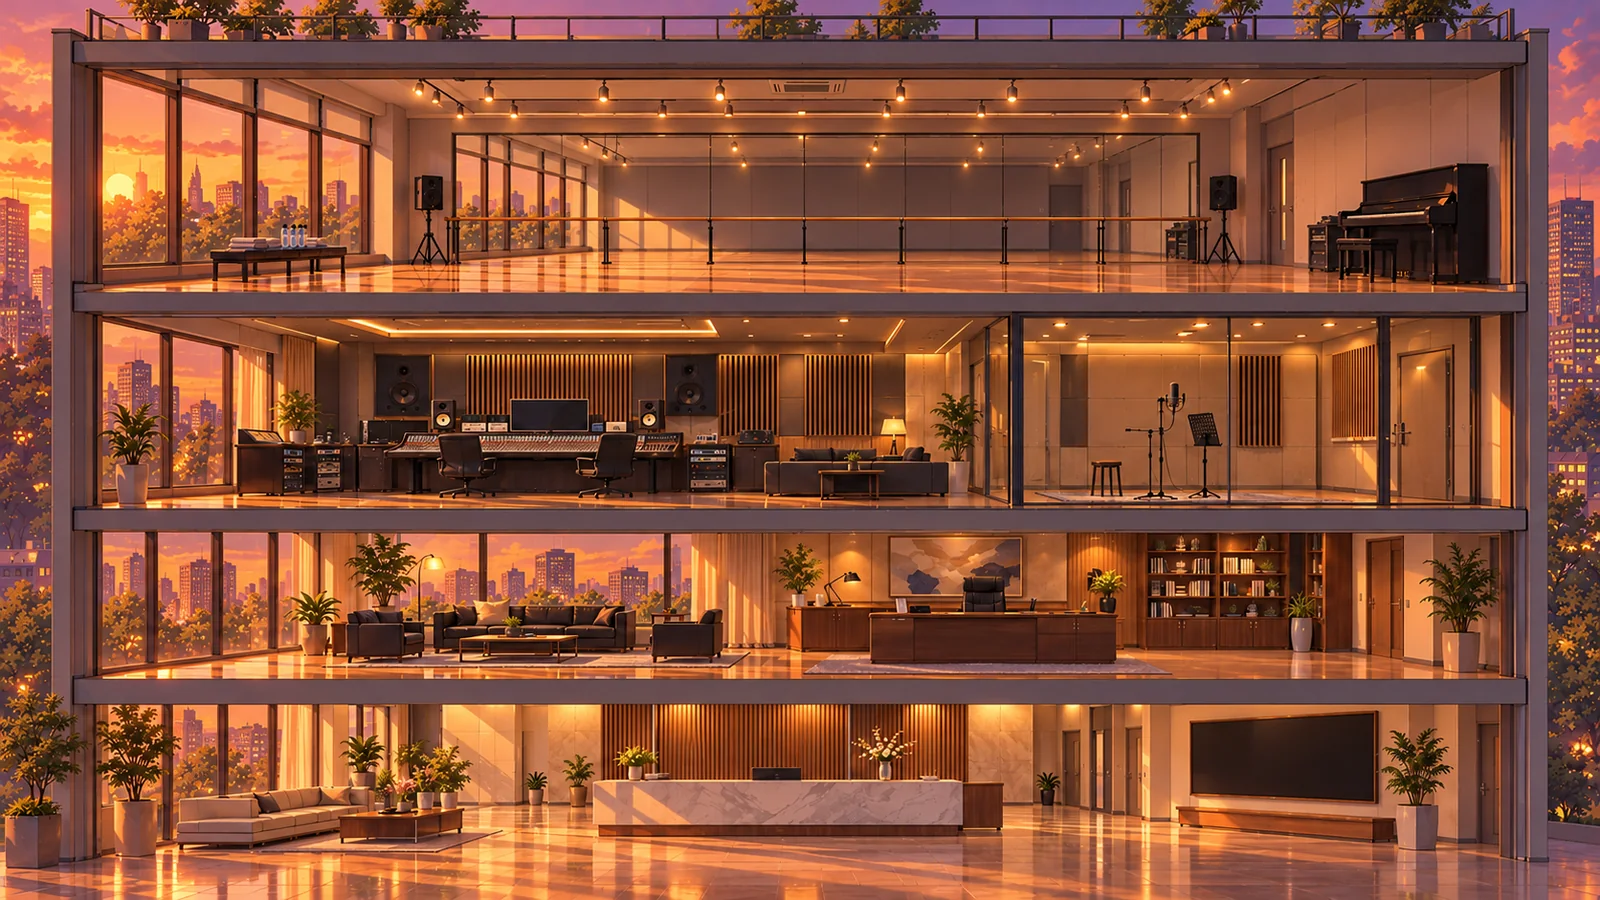
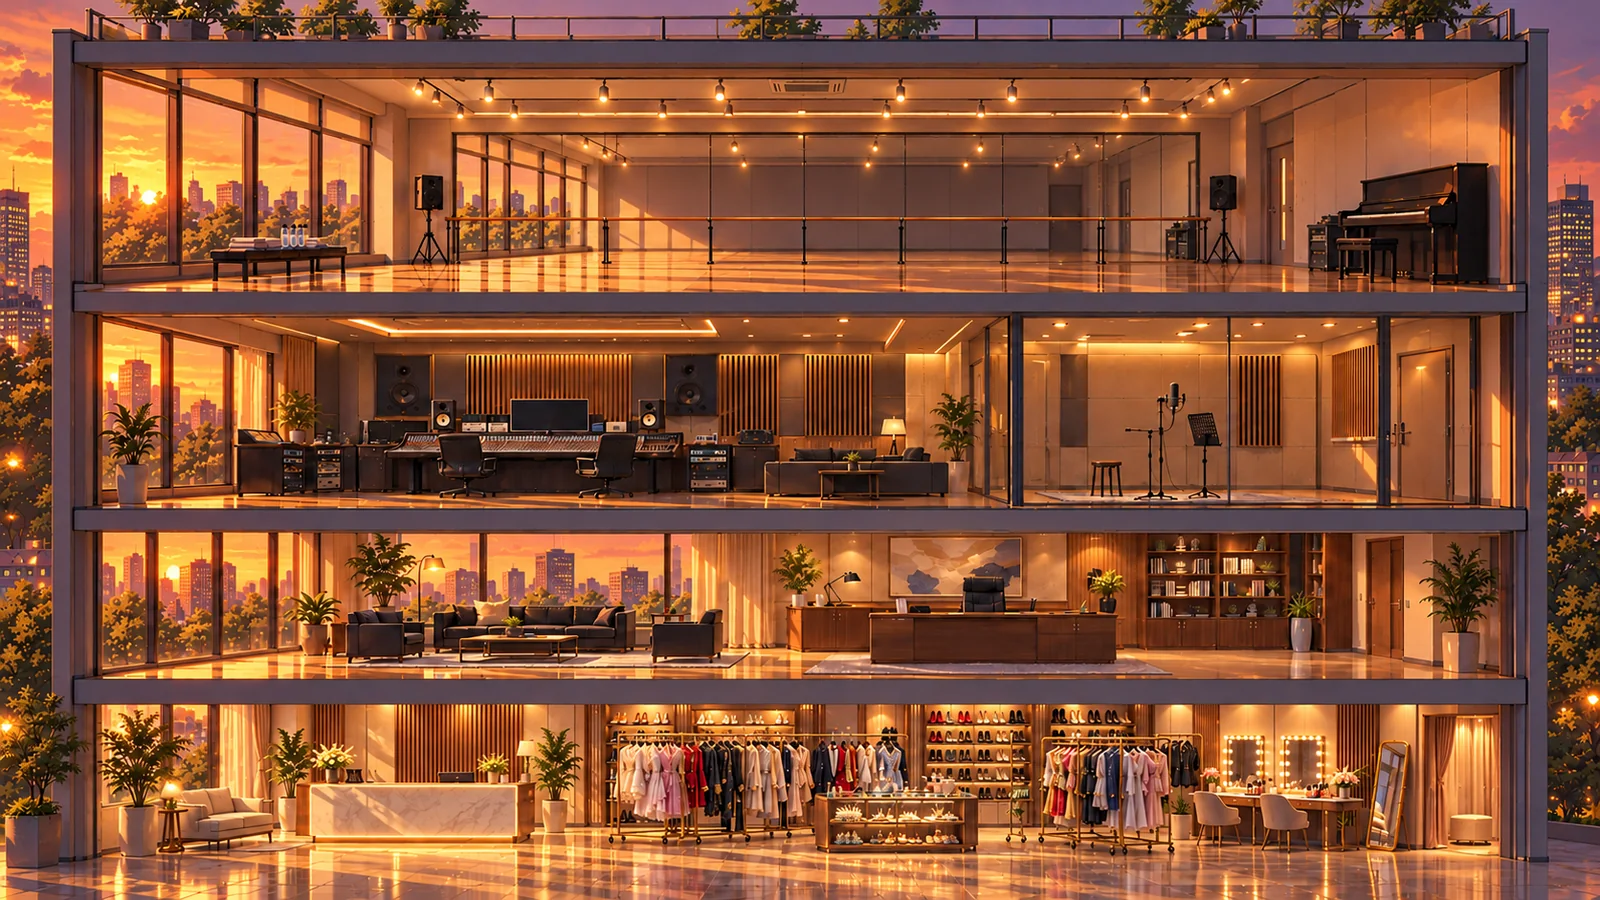
Add files via upload

diff --git a/www/game.js b/www/game.js
@@ -43,6 +43,7 @@ const PLACES=[
   {id:"practice",g:"公司大樓",n:"練習室",   sp:"practice",open:[0,1,2,3,4]},
   {id:"studio",  g:"公司大樓",n:"錄音室",   sp:"studio",  open:[1,2,3]},
   {id:"office",  g:"公司大樓",n:"代表辦公室",sp:"office",  open:[1,2,3]},
+  {id:"styling", g:"公司大樓",n:"造型室",   sp:"styling", open:[1,2,3]},
   {id:"living",  g:"宿舍",   n:"客廳",     sp:"dorm",    open:[0,3,4]},
   {id:"kitchen", g:"宿舍",   n:"廚房",     sp:"dorm",    open:[0,3,4]},
   {id:"bed_ys",  g:"宿舍",   n:"藝瑟的房間", sp:"dorm",    open:[0,3,4],base:"bedroom",owner:"ys"},
@@ -56,17 +57,17 @@ const PL=Object.fromEntries(PLACES.map(p=>[p.id,p]));
 const baseOf=pid=>PL[pid]?.base||pid;
 const openText=p=>p.open.length===5?"全天開放":p.open.map(i=>SLOTS[i].n).join("、")+"開放";
 const WHERE={
-  ys:[{practice:3,kitchen:2,living:1},{practice:4},{practice:3,studio:2},{practice:3,living:2,kitchen:1},{practice:3,living:1,river:1,bedroom:1}],
+  ys:[{practice:3,kitchen:2,living:1},{practice:4,styling:1},{practice:3,studio:2},{practice:3,living:2,kitchen:1},{practice:3,living:1,river:1,bedroom:1}],
   tr:[{bedroom:3,practice:1},{practice:3,studio:2},{studio:3,practice:2},{practice:2,bedroom:2,studio:1},{bedroom:2,store:2,practice:1}],
-  hy:[{practice:3,kitchen:1},{practice:2,"外出:韓語課":2},{practice:4},{practice:2,living:2},{living:1,bedroom:2,practice:1}],
-  he:[{kitchen:3,bedroom:1},{practice:3,"外出:個人拍攝":1},{practice:2,studio:1,"外出:個人拍攝":1},{kitchen:3,living:1,practice:1},{living:2,bedroom:2}],
+  hy:[{practice:3,kitchen:1},{practice:2,"外出:韓語課":2},{practice:4,styling:1},{practice:2,living:2},{living:1,bedroom:2,practice:1}],
+  he:[{kitchen:3,bedroom:1},{practice:3,styling:1,"外出:個人拍攝":1},{practice:2,studio:1,styling:1,"外出:個人拍攝":1},{kitchen:3,living:1,practice:1},{living:2,bedroom:2}],
   hr:[{bedroom:3,kitchen:1},{practice:3,"外出:聲樂課":1},{practice:3,studio:1},{living:3,practice:1,store:1},{practice:2,store:1,bedroom:1}]};
 
 /* ---------- 示範文字(劇本工坊沒有對應片段時才用) ---------- */
-const SCN={practice:"鏡子前的音樂還在放,地板上散著毛巾和水瓶。",studio:"隔音門關上的瞬間,外面的聲音全部消失了。",office:"你的辦公室。桌上的企劃書疊得比昨天更高。",
+const SCN={practice:"鏡子前的音樂還在放,地板上散著毛巾和水瓶。",studio:"隔音門關上的瞬間,外面的聲音全部消失了。",office:"你的辦公室。桌上的企劃書疊得比昨天更高。",styling:"造型室裡一排排衣架閃著光,化妝鏡的燈泡一盞盞亮著。",
   living:"客廳的電視開著,沙發上堆著抱枕和還沒摺的衣服。",kitchen:"廚房飄著味道,水槽裡泡著幾個碗。",bedroom:"你敲了敲寢室半開的門,裡面的燈還亮著。",
   store:"便利商店的自動門叮咚一聲打開,冷氣撲面而來。",river:"江風吹過來,對岸的燈一盞一盞亮著。"};
-const EMPTY={practice:"這裡現在沒有人。鏡子上貼著一張寫滿走位的便條。",studio:"這裡現在沒有人。控制台上放著一張寫了一半的歌詞。",office:"辦公室只有你一個人。祕書留了一疊待簽的文件。",
+const EMPTY={practice:"這裡現在沒有人。鏡子上貼著一張寫滿走位的便條。",studio:"這裡現在沒有人。控制台上放著一張寫了一半的歌詞。",office:"辦公室只有你一個人。祕書留了一疊待簽的文件。",styling:"造型室現在沒有成員,只有造型師在整理新到的衣服。",
   living:"客廳現在沒有人。遙控器被塞在沙發縫裡。",kitchen:"廚房現在沒有人。冰箱上貼著一張「不准偷吃」的紙條。",bedroom:"寢室裡沒有人,床鋪整理得比你想的還整齊。",
   store:"店裡只有店員在補貨,沒有認識的人。",river:"江邊只有慢跑的人和腳踏車,沒有認識的人。"};
 const LINES={
@@ -265,7 +266,7 @@ function setPause(k,on){on?pausers.add(k):pausers.delete(k);$("#stage").classLis
 function hm(){const s=SLOTS[S.slot],mins=s.from+(s.to-s.from)*Math.min(S.t,SLOT_SEC)/SLOT_SEC,h=Math.floor(mins/60)%24,mm=Math.floor(mins%60/10)*10;return `${pad(h)}:${pad(mm)}`}
 /* 座標都是畫面百分比(插畫 1600×900) */
 const SPOTS=[
-  {id:"company",n:"公司大樓",kind:"building",rect:[11.8,10.3,35.4,50.2],pin:[29.5,40],rooms:["practice","studio","office"]},
+  {id:"company",n:"公司大樓",kind:"building",rect:[11.8,10.3,35.4,50.2],pin:[29.5,40],rooms:["practice","studio","office","styling"]},
   {id:"tv",n:"電視台",kind:"locked",rect:[53,10.5,17.5,10.5],pin:[62.5,14],note:"出道後的打歌期開放"},
   {id:"dorm",n:"宿舍",kind:"building",rect:[67.3,27,21.4,33.5],pin:[77.8,28],rooms:["living","kitchen","bed_ys","bed_tr","bed_hy","bed_he","bed_hr"]},
   {id:"store",n:"便利商店",kind:"place",rect:[47.4,52,17.6,19],pin:[56.2,51.5]},
@@ -276,7 +277,7 @@ const INSIDE={
     {pid:"practice",fl:"4F",n:"練習室",r:[6.4,7.8,88.8,24.4],feet:30.8,h:15.5},
     {pid:"studio",fl:"3F",n:"錄音室",r:[6.4,35.6,86.8,20.4],feet:55.4,h:15.5,xr:[22,60],fac:"recording"},
     {pid:"office",fl:"2F",n:"代表辦公室",r:[6.4,59.4,88.8,17.2],feet:75.6,h:15.5,xr:[40,80],fac:"planning"},
-    {pid:"styling",fl:"1F",n:"造型室",r:[6.4,78.4,88.8,17.8],feet:94,h:15.5,lp:"r",fac:"wardrobe"}]},
+    {pid:"styling",fl:"1F",n:"造型室",r:[6.4,78.4,88.8,17.8],feet:93.6,h:15.5,lp:"r",xr:[42,78],fac:"wardrobe"}]},
   dorm:{n:"宿舍",sub:"選擇要去的房間",rooms:[
     {pid:"bed_ys",fl:"2F",n:"藝瑟",r:[5.25,11.1,17.5,34.1],feet:43.6,h:22,xr:[66,80]},
     {pid:"bed_tr",fl:"2F",n:"泰梨",r:[24.1,11.1,16.5,34.1],feet:43.6,h:22,xr:[66,80]},
@@ -354,7 +355,7 @@ function tvChooser(){
   el.onclick=e=>{if(e.target===el) el.classList.remove("on")};
 }
 /* 有設施又能拜訪的房間:先問要做什麼 */
-const FACN={planning:["企劃桌","歌曲企劃、發行計畫"],recording:["錄音台","逐句分配、錄音評分"]};
+const FACN={planning:["企劃桌","歌曲企劃、發行計畫"],recording:["錄音台","逐句分配、錄音評分"],wardrobe:["造型室","衣櫃、委託設計、生圖、成員底模"]};
 function chooser(pid,fac){
   let el=$("#chooser"); if(!el){el=document.createElement("div");el.id="chooser";el.className="chooser";$("#stage").appendChild(el)}
   const p=PL[pid], open=p.open.includes(S.slot), vis=S.visited.includes(pid), ppl=who(pid), canVisit=open&&!vis&&S.acts>0;
@@ -364,7 +365,7 @@ function chooser(pid,fac){
     <button class="chx" data-ch="x">取消</button></div>`;
   el.classList.add("on");
   el.querySelectorAll("[data-ch]").forEach(b=>b.onclick=()=>{el.classList.remove("on"); const c=b.dataset.ch;
-    if(c==="fac") window.openSongFacility&&openSongFacility(fac); else if(c==="visit") visit(pid)});
+    if(c==="fac"){ if(fac==="wardrobe") window.openFacility&&openFacility("wardrobe"); else window.openSongFacility&&openSongFacility(fac) } else if(c==="visit") visit(pid)});
   el.onclick=e=>{if(e.target===el) el.classList.remove("on")};
 }
 function renderWhere(){

diff --git a/www/index.html b/www/index.html
@@ -301,8 +301,8 @@ dialog.set::backdrop{background:rgba(10,8,16,.6)}
    ===================================================================== */
 .fac-wrap{position:absolute;inset:0;z-index:40;color:#3A2C2E;--gold:#B8955A;--gold2:#E4CC97;--paper:#FBF6EE;--paper2:#F3EADC;--ink:#3A2C2E;--soft:#8A7670;transition:opacity .35s}
 .fac-wrap.hide{opacity:0;pointer-events:none}
-.fac-bg{position:absolute;inset:-3cqw;background:center/cover;filter:blur(1.6cqw) saturate(.9) brightness(.9);transform:scale(1.05)}
-.fac-veil{position:absolute;inset:0;background:linear-gradient(180deg,rgba(251,246,238,.82),rgba(243,234,220,.9)),repeating-linear-gradient(90deg,rgba(184,149,90,.05) 0 .1cqw,transparent .1cqw 2.4cqw)}
+.fac-bg{position:absolute;inset:-3cqw;background:center/cover;filter:blur(.9cqw) saturate(.95) brightness(.95);transform:scale(1.05)}
+.fac-veil{position:absolute;inset:0;background:linear-gradient(180deg,rgba(251,246,238,.62),rgba(243,234,220,.8)),repeating-linear-gradient(90deg,rgba(184,149,90,.05) 0 .1cqw,transparent .1cqw 2.4cqw)}
 .fac-head{position:absolute;left:0;right:0;top:0;height:8.6cqw;display:flex;align-items:center;gap:3cqw;padding:0 2.4cqw;border-bottom:.12cqw solid var(--gold);
   background:linear-gradient(180deg,rgba(255,252,246,.95),rgba(251,246,238,.85))}
 .fac-head::after{content:"";position:absolute;left:2.4cqw;right:2.4cqw;bottom:-.55cqw;height:.08cqw;background:var(--gold2)}

diff --git a/www/wardrobe.js b/www/wardrobe.js
@@ -359,7 +359,7 @@ function facShell(){
   $("#facClose").onclick=closeFacility;
 }
 window.openFacility=async kind=>{ facShell(); FAC=kind; PENDING=await IDB.get("pending")||{}; setPause("fac",true);
-  const el=$("#facility"); el.querySelector(".fac-bg").style.backgroundImage=`url(assets/scene/company_${SLOTS[S.slot].light}.webp)`;
+  const el=$("#facility"); el.querySelector(".fac-bg").style.backgroundImage=`url(assets/bg/styling_${SLOTS[S.slot].light}.webp)`;
   el.classList.remove("hide"); renderFacility() };
 function closeFacility(){ $("#facility").classList.add("hide"); $("#facDetail").classList.add("hide"); setPause("fac",false); FAC=null }
 
